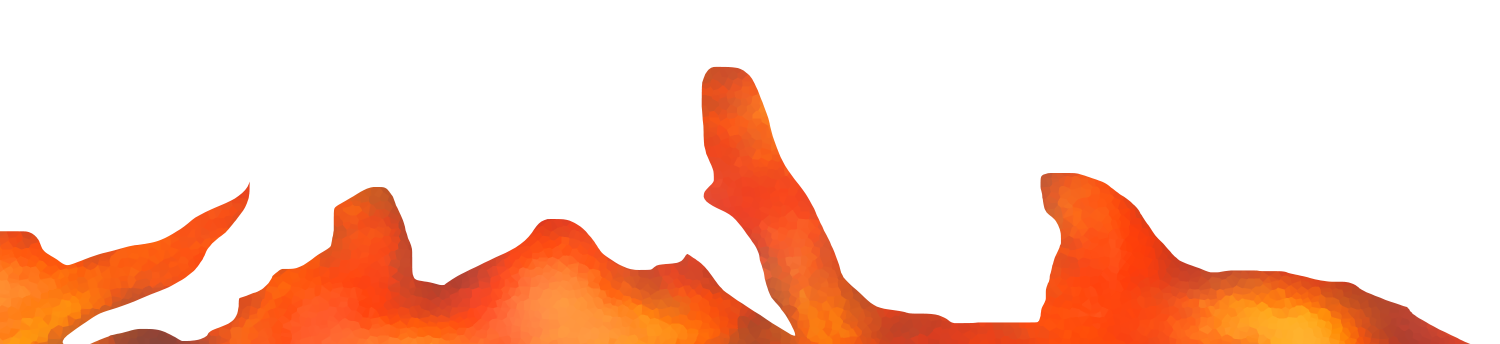
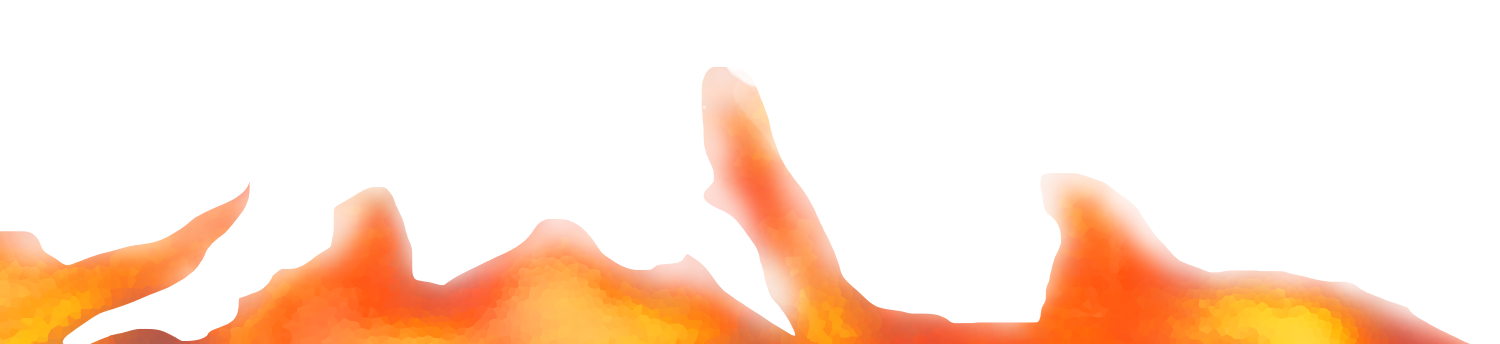
Updated visuals

Changed region(s): [[0.0, 0.1744, 0.9813, 1.0]]

diff --git a/Assets/Game/Scripts/TweenOpacity.cs b/Assets/Game/Scripts/TweenOpacity.cs
@@ -1,0 +1,43 @@
+using System.Collections;
+using System.Collections.Generic;
+using UnityEngine;
+
+public class TweenOpacity : MonoBehaviour {
+
+	[SerializeField] private SpriteRenderer _sprite;
+    [SerializeField] private float _minAlpha;
+    [SerializeField] private float _maxAlpha;
+    [SerializeField] private float _pulseDuration;
+
+    private bool _isBlocking;
+    
+    private void Awake()
+    {
+        FadeOut();
+    }
+
+    private void FadeOut()
+    {
+        iTween.Stop(gameObject);
+        iTween.ValueTo(gameObject, iTween.Hash(
+            "from", _maxAlpha, "to", _minAlpha,
+            "time", _pulseDuration, "easetype", "linear",
+            "onupdate", "SetSpriteAlpha", "oncomplete", "FadeIn"));
+    }
+
+    private void FadeIn()
+    {
+        iTween.Stop(gameObject);
+        iTween.ValueTo(gameObject, iTween.Hash(
+            "from", _minAlpha, "to", _maxAlpha,
+            "time", _pulseDuration, "easetype", "linear",
+            "onupdate", "SetSpriteAlpha", "oncomplete", "FadeOut"));
+    }
+
+    private void SetSpriteAlpha(float alpha)
+    {
+        var color = _sprite.color;
+        color.a = alpha;
+        _sprite.color = color;
+    }
+}

diff --git a/Assets/Game/Scripts/Drone.cs b/Assets/Game/Scripts/Drone.cs
@@ -5,6 +5,7 @@ using UnityEngine;
 public class Drone : MonoBehaviour
 {
     [SerializeField] private float _speed;
+    [SerializeField] private ParticleSystem m_Particles;
 
     private void FixedUpdate()
     {
@@ -19,6 +20,7 @@ public class Drone : MonoBehaviour
     public void DestroyDrone()
     {
         // Destroy Vfx, Sfx
+        GameObject.Instantiate(m_Particles, transform.position, m_Particles.transform.rotation);
         Destroy(gameObject);
     }
 }

diff --git a/Assets/Game/Scripts/DestroyDroneVFX.cs b/Assets/Game/Scripts/DestroyDroneVFX.cs
@@ -1,0 +1,16 @@
+using System.Collections;
+using System.Collections.Generic;
+using UnityEngine;
+
+public class DestroyDroneVFX : MonoBehaviour {
+
+	[SerializeField] List<ParticleSystem> m_Particles;
+
+	public static DestroyDroneVFX Instance;
+	
+	public void SpawnExplosionFire(int index)
+	{
+		m_Particles[index].Play();
+	}
+	
+}
